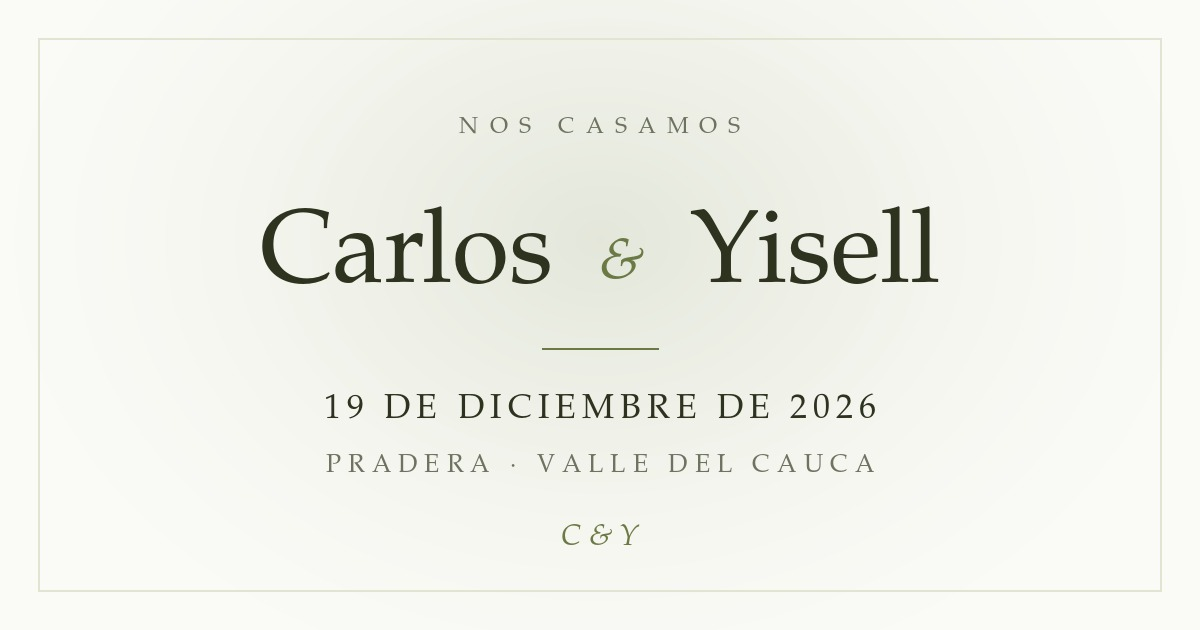
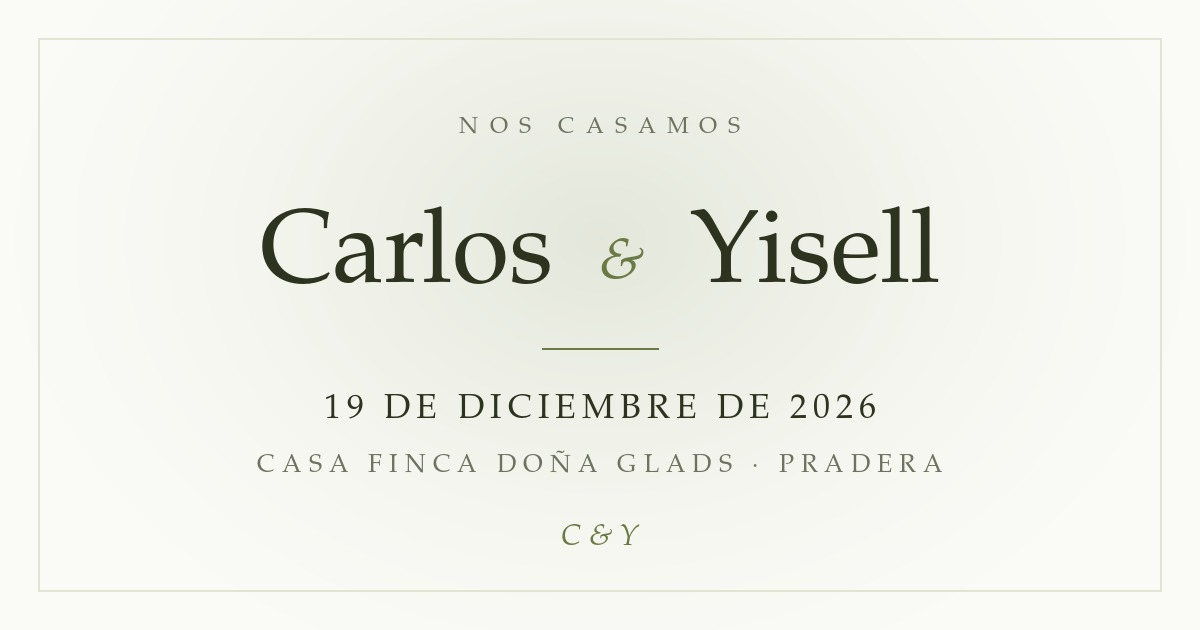
feat: nombre del lugar — Casa Finca Doña Glads

Changed region(s): [[0.2158, 0.7238, 0.8017, 0.754]]

diff --git a/app/config/wedding.ts b/app/config/wedding.ts
@@ -17,7 +17,7 @@ export const wedding: WeddingConfig = {
 
   // Lo que se ve al compartir el enlace por WhatsApp o redes.
   seo: {
-    tagline: '19 de Diciembre de 2026 · Pradera, Valle del Cauca.',
+    tagline: '19 de Diciembre de 2026 · Casa Finca Doña Glads, Pradera, Valle.',
     ogImage: '/og/invitation.jpg',
     demoCode: 'carlos',
   },
@@ -29,7 +29,7 @@ export const wedding: WeddingConfig = {
 Hola {name}, con el corazón lleno de alegría queremos invitarte a celebrar nuestra boda 💍
 
 🗓 Sábado 19 de Diciembre de 2026
-📍 Pradera, Valle del Cauca
+📍 Casa Finca Doña Glads · Pradera, Valle
 
 Toca tu invitación personal para ver todos los detalles y confirmar tu asistencia 👇
 {link}
@@ -69,11 +69,12 @@ Carlos & Yisell 🤍`,
   venues: [
     {
       label: 'Ceremonia y Recepción',
-      // TODO: falta el nombre del lugar (Kevin lo confirma).
-      name: 'Pradera, Valle del Cauca',
+      name: 'Casa Finca Doña Glads',
       address: 'Calle 5, Pradera, Valle del Cauca',
       lat: 3.4153131,
       lng: -76.2324868,
+      // Por coordenadas a propósito: una finca rural no siempre aparece en
+      // Google Maps por su nombre, y las coordenadas sí llevan al punto exacto.
       mapsUrl: 'https://www.google.com/maps/dir/?api=1&destination=3.4153131%2C-76.2324868',
     },
   ],
